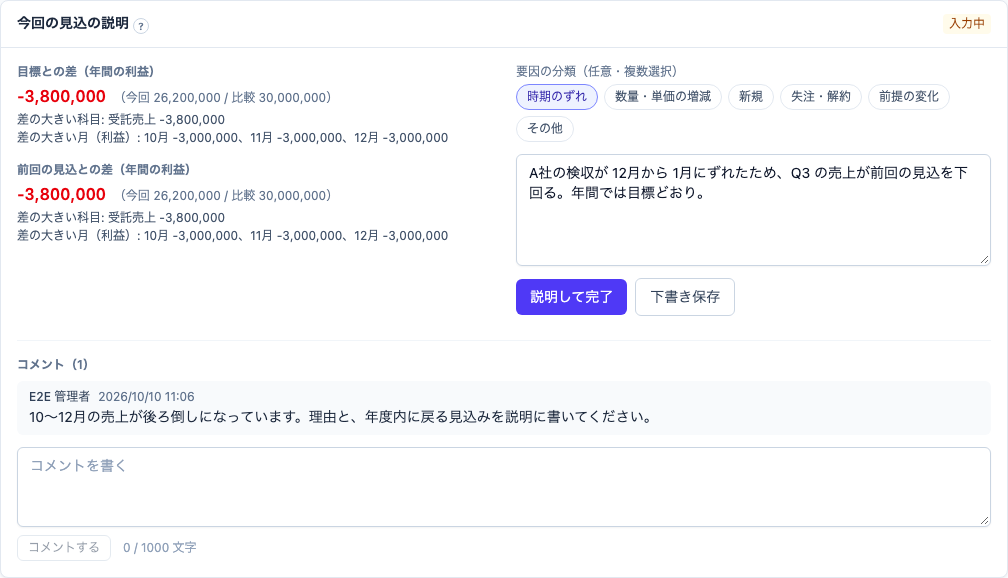
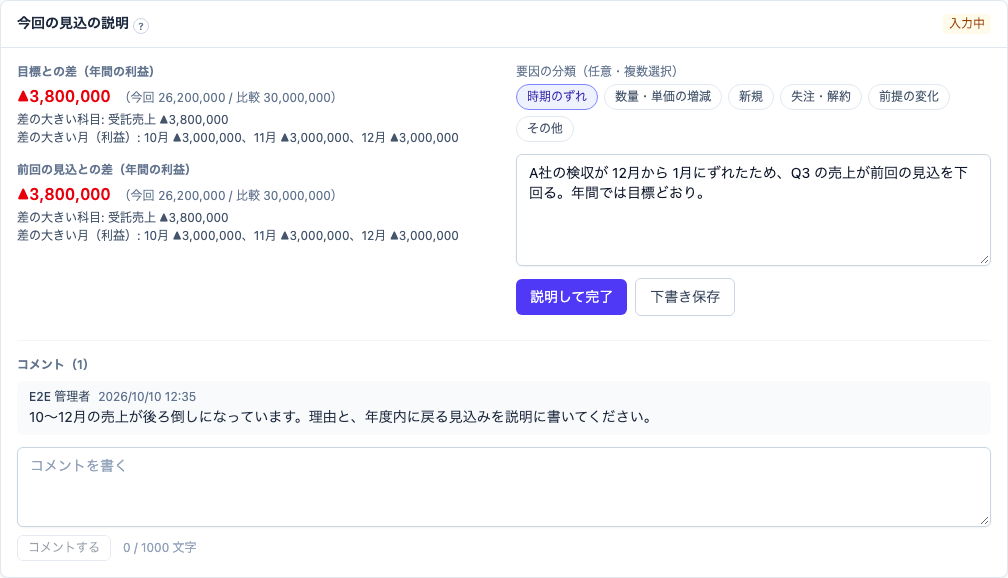
feat: 金額のマイナスを ▲ で表示する
- 画面・図・報告資料の Excel の金額のマイナスを「▲1,000」にする（差のプラスは「+1,000」、率も「▲5.2%」）
- CSV は「-」のまま
- 数値の入力でも ▲・△・(1,000) をマイナスとして受け付ける（貼り付けと同じ）
- plan.md「7. 前提・決定事項」と CLAUDE.md に表示のルールを追記する

Changed region(s): [[0.0, 0.3114, 0.4613, 0.436], [0.0, 0.1557, 0.4613, 0.2491]]

diff --git a/web/src/lib/format.ts b/web/src/lib/format.ts
@@ -2,23 +2,47 @@
 
 const yen = new Intl.NumberFormat('ja-JP')
 
-/** 金額（円）を 3 桁区切りにする。値は文字列または数値（大きな整数も桁落ちさせない） */
+/** マイナスの記号。画面・図・Excel の金額は「▲1,000」と表す（CSV は「-」のまま） */
+export const minusSign = '▲'
+
+/** 整数を 3 桁区切りにし、マイナスは ▲ を付ける（大きな整数も桁落ちさせない） */
+function groupInt(int: string): string {
+  const negative = int.startsWith('-')
+  const body = yen.format(BigInt(negative ? int.slice(1) : int))
+  return negative && body !== '0' ? `${minusSign}${body}` : body
+}
+
+/** 金額（円）を 3 桁区切りにする。マイナスは「▲1,000」。値は文字列または数値 */
 export function formatYen(v: string | number | null | undefined): string {
   if (v === null || v === undefined || v === '') return ''
   const s = String(v)
-  if (/^-?\d+$/.test(s)) {
-    return yen.format(BigInt(s))
-  }
+  if (/^-?\d+$/.test(s)) return groupInt(s)
   return s
 }
 
-/** 数値を桁区切りにする（小数を含む） */
+/** 数値を桁区切りにする（小数を含む）。マイナスは ▲ */
 export function formatNumber(v: string | number | null | undefined): string {
   if (v === null || v === undefined || v === '') return ''
   const s = String(v)
   const [int, frac] = s.split('.')
-  const i = /^-?\d+$/.test(int) ? yen.format(BigInt(int)) : int
-  return frac ? `${i}.${frac}` : i
+  if (!/^-?\d+$/.test(int)) return s
+  const negative = int.startsWith('-')
+  const i = groupInt(int)
+  // -0.5 のように整数部が 0 のときも ▲ を付ける
+  const head = negative && !i.startsWith(minusSign) && frac ? `${minusSign}${i}` : i
+  return frac ? `${head}.${frac}` : head
+}
+
+/** 差の金額。プラスは「+1,000」、マイナスは「▲1,000」、0 は「0」 */
+export function formatSignedYen(v: bigint | string | number): string {
+  const n = BigInt(v)
+  return `${n > 0n ? '+' : ''}${formatYen(String(n))}`
+}
+
+/** 差の率（%）。プラスは「+5.2%」、マイナスは「▲5.2%」 */
+export function formatRate(rate: number): string {
+  if (rate < 0) return `${minusSign}${-rate}%`
+  return `${rate > 0 ? '+' : ''}${rate}%`
 }
 
 /** "2026-10" → "10月" */

diff --git a/web/src/pages/scenarios/ComparisonCard.tsx b/web/src/pages/scenarios/ComparisonCard.tsx
@@ -2,7 +2,7 @@ import { useState } from 'react'
 import type { AmountRow } from '../../api/types'
 import { Card, cx } from '../../components/ui'
 import { isFavorable, varianceRate } from '../../lib/aggregate'
-import { formatYen } from '../../lib/format'
+import { formatRate, formatSignedYen, formatYen } from '../../lib/format'
 import { buildSeriesPl, grainLabels, periodsOf, sumOver, type Grain, type SeriesPlNode } from '../../lib/pl'
 
 /** 比べる系列。rows が undefined のときは「未設定」や「読み込み中」として扱う */
@@ -127,15 +127,13 @@ export function ComparisonCard({ months, current, compares }: { months: string[]
                         return (
                           <td
                             key={key}
-                            title={rate === null ? undefined : `${rate > 0 ? '+' : ''}${rate}%`}
+                            title={rate === null ? undefined : formatRate(rate)}
                             className={cx(cellClass(key), last && 'border-b border-slate-200', fav === true && 'text-emerald-700', fav === false && 'text-red-600', fav === null && 'text-slate-300')}
                           >
-                            {value > 0n ? '+' : ''}
-                            {formatYen(String(value))}
+                            {formatSignedYen(value)}
                             {key === 'total' && rate !== null && (
                               <span className="ml-1 text-xs font-normal">
-                                ({rate > 0 ? '+' : ''}
-                                {rate}%)
+                                ({formatRate(rate)})
                               </span>
                             )}
                           </td>

diff --git a/web/src/pages/activities/ActivityPlCard.tsx b/web/src/pages/activities/ActivityPlCard.tsx
@@ -2,7 +2,7 @@ import { useMemo, useState } from 'react'
 import type { List, Scenario, ValuesView } from '../../api/types'
 import { Card, Empty, ErrorMessage, Loading, Select, cx } from '../../components/ui'
 import { isFavorable, varianceRate } from '../../lib/aggregate'
-import { formatYen } from '../../lib/format'
+import { formatRate, formatSignedYen, formatYen } from '../../lib/format'
 import { buildPl, defaultFiscalYear, grainLabels, periodsOf, sumOver, type Grain, type PlNode } from '../../lib/pl'
 import { Link } from '../../lib/router'
 import { actualThroughLabel, defaultScenarios, scenarioLabel } from '../../lib/scenario'
@@ -234,12 +234,11 @@ function PlTable({ nodes, periods, open, onToggle }: { nodes: PlNode[]; periods:
                   return (
                     <td
                       key={a.key}
-                      title={rate === null ? undefined : `${rate > 0 ? '+' : ''}${rate}%`}
+                      title={rate === null ? undefined : formatRate(rate)}
                       className={cx(cellClass(a.key), 'border-b border-slate-200', fav === true && 'text-emerald-700', fav === false && 'text-red-600', fav === null && 'text-slate-300')}
                     >
-                      {a.diff > 0n ? '+' : ''}
-                      {formatYen(String(a.diff))}
-                      {a.key === 'total' && rate !== null && <span className="ml-1 text-xs font-normal">({rate > 0 ? '+' : ''}{rate}%)</span>}
+                      {formatSignedYen(a.diff)}
+                      {a.key === 'total' && rate !== null && <span className="ml-1 text-xs font-normal">({formatRate(rate)})</span>}
                     </td>
                   )
                 })}

diff --git a/web/src/lib/format.test.ts b/web/src/lib/format.test.ts
@@ -1,10 +1,10 @@
 import assert from 'node:assert/strict'
 import { test } from 'node:test'
-import { formatNumber, formatPercent, formatYen, monthLabel, yearMonthLabel } from './format.ts'
+import { formatNumber, formatPercent, formatRate, formatSignedYen, formatYen, monthLabel, yearMonthLabel } from './format.ts'
 
 test('formatYen: 3桁区切り。大きな整数も桁落ちしない', () => {
   assert.equal(formatYen('1234567'), '1,234,567')
-  assert.equal(formatYen(-500000), '-500,000')
+  assert.equal(formatYen(-500000), '▲500,000')
   assert.equal(formatYen('0'), '0')
   assert.equal(formatYen('123456789012345678'), '123,456,789,012,345,678')
   assert.equal(formatYen(null), '')
@@ -13,7 +13,8 @@ test('formatYen: 3桁区切り。大きな整数も桁落ちしない', () => {
 
 test('formatNumber: 小数を保つ', () => {
   assert.equal(formatNumber('52000.5'), '52,000.5')
-  assert.equal(formatNumber('-1200'), '-1,200')
+  assert.equal(formatNumber('-1200'), '▲1,200')
+  assert.equal(formatNumber('-0.5'), '▲0.5')
   assert.equal(formatNumber('0.123456'), '0.123456')
 })
 
@@ -26,4 +27,13 @@ test('formatPercent: 0〜1 をパーセントに', () => {
 test('月の表示', () => {
   assert.equal(monthLabel('2027-01'), '1月')
   assert.equal(yearMonthLabel('2026-10'), '2026年10月')
+})
+
+test('formatSignedYen・formatRate', () => {
+  assert.equal(formatSignedYen(1000n), '+1,000')
+  assert.equal(formatSignedYen(-1000n), '▲1,000')
+  assert.equal(formatSignedYen(0n), '0')
+  assert.equal(formatRate(5.2), '+5.2%')
+  assert.equal(formatRate(-5.2), '▲5.2%')
+  assert.equal(formatRate(0), '0%')
 })

diff --git a/web/src/pages/reports/ReportPage.tsx b/web/src/pages/reports/ReportPage.tsx
@@ -16,7 +16,7 @@ import {
 } from '../../api/types'
 import { Button, Card, Empty, ErrorMessage, Loading, PageHeader, Select, Table, cx } from '../../components/ui'
 import { aggregate, isFavorable, measureLabels, measureOf, varianceRate, type Measure, type Totals } from '../../lib/aggregate'
-import { formatYen, monthLabel } from '../../lib/format'
+import { formatRate, formatSignedYen, formatYen, monthLabel } from '../../lib/format'
 import { Link, navigate, useLocation } from '../../lib/router'
 import { defaultScenarios, fiscalMonths, scenarioLabel as labelOf } from '../../lib/scenario'
 import { buildTree, subtreeIds, type Tree } from '../../lib/tree'
@@ -518,9 +518,8 @@ function VarianceCell({ base, value, measure }: { base: bigint; value: bigint; m
   const rate = varianceRate(base, value)
   return (
     <td className={cx('border-b border-slate-100 px-3 py-1.5 text-right tabular-nums whitespace-nowrap', fav === true && 'text-emerald-700', fav === false && 'text-red-600')}>
-      {diff > 0n ? '+' : ''}
-      {formatYen(String(diff))}
-      {rate !== null && diff !== 0n && <span className="ml-1 text-xs opacity-70">({rate > 0 ? '+' : ''}{rate}%)</span>}
+      {formatSignedYen(diff)}
+      {rate !== null && diff !== 0n && <span className="ml-1 text-xs opacity-70">({formatRate(rate)})</span>}
     </td>
   )
 }

diff --git a/web/src/pages/scenarios/ValuesPage.tsx b/web/src/pages/scenarios/ValuesPage.tsx
@@ -3,6 +3,7 @@ import { api, ApiError } from '../../api/client'
 import { categoryLabels, outlookLabels, type AmountRow, type List, type Scenario, type Subject, type ValuesView } from '../../api/types'
 import { SheetCell, SheetFrame, useSheet, type Sheet } from '../../components/Sheet'
 import { Badge, Button, Card, ErrorMessage, Loading, Select, Textarea, cx } from '../../components/ui'
+import { cleanNumber } from '../../lib/sheet'
 import { formatNumber, formatYen, monthLabel, yearMonthLabel } from '../../lib/format'
 import { useActiveScenario } from '../../lib/activeScenario'
 import { useCurrentUser } from '../../lib/auth'
@@ -25,9 +26,8 @@ type ServerCell = CellEdit & { source?: string }
 
 const sourceLabels: Record<string, string> = { manual: '直接入力', formula: '計算式', import: '取込', actual: '実績' }
 
-function normalize(v: string): string {
-  return v.replace(/,/g, '').trim()
-}
+// 桁区切りを除き、▲・△・全角などの表記を半角の数値にそろえる（貼り付けと同じ）
+const normalize = cleanNumber
 
 /** 施策の画面の内訳・ドライバーの追加（「今回の更新」の表から開く。docs/plan.md「2.19」） */
 export type PanelActions = { addLine: () => void; addDriver: () => void }

diff --git a/web/src/pages/HomePage.tsx b/web/src/pages/HomePage.tsx
@@ -7,7 +7,7 @@ import { DeadlineBadge } from '../components/Layout'
 import { PriorityBadge, WatchButton } from '../components/PriorityWatch'
 import { useActiveScenario } from '../lib/activeScenario'
 import { useCurrentUser } from '../lib/auth'
-import { formatDateTime, formatYen, monthLabel } from '../lib/format'
+import { formatDateTime, formatSignedYen, formatYen, monthLabel } from '../lib/format'
 import { countByStatus, profitDiff, profitOf, sortStatuses, summarizeChanges, type SortMode } from '../lib/home'
 import { Link, navigate, useLocation } from '../lib/router'
 import { actualThroughLabel, scenarioLabel } from '../lib/scenario'
@@ -259,7 +259,7 @@ function Row({ it, scenarioId, unit, owner }: { it: ActivityProgress; scenarioId
   const diff = (compare: typeof it.base) => {
     const d = profitDiff(it.current, compare)
     if (d === null) return <span className="text-slate-300">—</span>
-    return <span className={cx(d > 0n && 'text-emerald-700', d < 0n && 'text-red-600', d === 0n && 'text-slate-400')}>{`${d > 0n ? '+' : ''}${formatYen(String(d))}`}</span>
+    return <span className={cx(d > 0n && 'text-emerald-700', d < 0n && 'text-red-600', d === 0n && 'text-slate-400')}>{formatSignedYen(d)}</span>
   }
   return (
     <tr>

diff --git a/web/src/pages/ChangeSummaryCard.tsx b/web/src/pages/ChangeSummaryCard.tsx
@@ -1,7 +1,7 @@
 import { noteCauseLabels, noteStatusLabels, type ActivityProgress, type NoteCause } from '../api/types'
 import { Badge, Card, cx } from '../components/ui'
 import { CommentCount } from '../components/CommentCount'
-import { formatYen } from '../lib/format'
+import { formatSignedYen } from '../lib/format'
 import { compactYen, summaryText, type ChangeSummary } from '../lib/home'
 import { Link } from '../lib/router'
 import { Help } from '../components/Help'
@@ -13,7 +13,7 @@ const excerpt = (s: string, n = 80) => (s.length > n ? `${s.slice(0, n)}…` : s
 /** 変動のサマリー（前回見込 → 今回）。文章・施策別（上位）・要因別 */
 export function ChangeSummaryCard({ summary, scenarioId, ownerName }: { summary: ChangeSummary; scenarioId: number; ownerName: (it: ActivityProgress) => string }) {
   const signed = (v: bigint) => (
-    <span className={cx('tabular-nums', v > 0n && 'text-emerald-700', v < 0n && 'text-red-600', v === 0n && 'text-slate-400')}>{`${v > 0n ? '+' : ''}${formatYen(String(v))}`}</span>
+    <span className={cx('tabular-nums', v > 0n && 'text-emerald-700', v < 0n && 'text-red-600', v === 0n && 'text-slate-400')}>{formatSignedYen(v)}</span>
   )
   return (
     <Card

diff --git a/web/src/pages/ServiceStatusCard.tsx b/web/src/pages/ServiceStatusCard.tsx
@@ -1,7 +1,7 @@
 import { useState } from 'react'
 import { unitTypeLabels, type ActivityProgress, type ActivityProgressReport, type Unit } from '../api/types'
 import { Card, cx } from '../components/ui'
-import { formatYen } from '../lib/format'
+import { formatSignedYen, formatYen } from '../lib/format'
 import { sumTotals, totalsByUnit, type UnitTotals } from '../lib/home'
 import { scenarioLabel } from '../lib/scenario'
 import { Help } from '../components/Help'
@@ -38,7 +38,7 @@ export function ServiceStatusCard({
   const diff = (cur: bigint, cmp: bigint | null) => {
     if (cmp === null) return <span className="text-slate-300">—</span>
     const d = cur - cmp
-    return <span className={cx(d > 0n && 'text-emerald-700', d < 0n && 'text-red-600', d === 0n && 'text-slate-400')}>{`${d > 0n ? '+' : ''}${formatYen(String(d))}`}</span>
+    return <span className={cx(d > 0n && 'text-emerald-700', d < 0n && 'text-red-600', d === 0n && 'text-slate-400')}>{formatSignedYen(d)}</span>
   }
   const columns: { key: 'initial' | 'revised' | 'previous'; label: string }[] = [
     { key: 'initial', label: '期初計画' },
